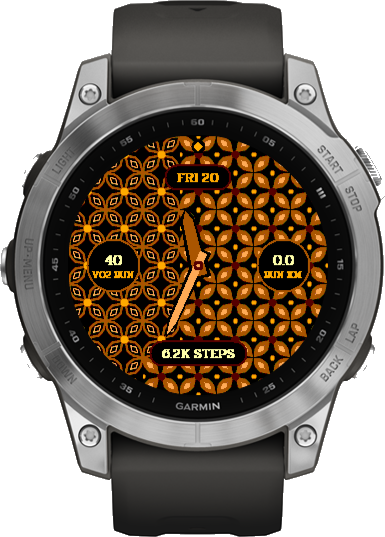
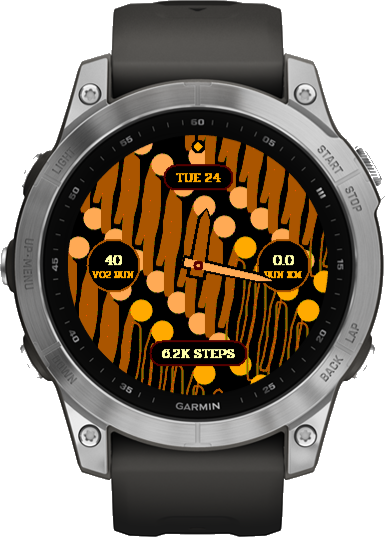
Batik Watchface: refresh store listing and images for v1.2.0
Rewrite the store listing for the three-motif release (Kawung, Parang,
Mega Mendung) with EN/ID descriptions and What's New, regenerate store
images and mockups, and update the preview and compose scripts used to
produce them.

Changed region(s): [[0.1558, 0.2384, 0.8727, 0.7449]]

diff --git a/Batik Watchface/nusantara-kawung/docs/store-listing.md b/Batik Watchface/nusantara-kawung/docs/store-listing.md
@@ -1,38 +1,129 @@
-# NUSANTARA Kawung — Connect IQ Store listing (draft)
+# NUSANTARA Batik: Connect IQ Store listing
 
-**NUSANTARA · Series 01 Batik · Living Heritage on Your Wrist**
+One app, three living batik motifs: Kawung, Parang, Mega Mendung.
+Published under the original Kawung AppID (`4e7573616e746172614b6177756e6701`), so existing users get it as an update.
 
-## Short description
-A Kawung batik watch face that blooms with your day. Steps turn the motif from quiet line-work to full gold.
+Upload: `bin/NusantaraKawung.iq` (version 1.2.0, 64 watches).
+Images: `docs/store/` (HERO, COVER, SCREEN_1 to SCREEN_4), all within portal limits.
+Masters: `docs/store/master/`. Regenerate: `tools/capture.ps1 -Motif n ...`, `tools/compose-store.ps1`, `tools/compose-portal.ps1`.
+
+## Title
+- EN: `NUSANTARA Batik · Living Watch Face`
+- ID: `NUSANTARA Batik · Watch Face Hidup`
 
 ## Description (EN)
-Kawung is one of the classical motifs of Javanese batik: four oval petals around a single centre, repeated in a precise lattice. It is commonly associated with the Yogyakarta and Surakarta court traditions.
+```
+Three classical batik motifs, one living watch face. Choose Kawung, Parang or Mega Mendung in Garmin Connect – the motif itself is your daily progress.
 
-In NUSANTARA Kawung the motif is the progress indicator:
-- **Dormant:** at 0 steps the full Kawung lattice is drawn as fine line-work. It is a complete design on its own.
-- **Awakening:** petals gain gilded outlines, sweeping clockwise from 12 o'clock, ahead of your progress.
-- **Blooming:** petals fill with gold as you approach your daily step goal.
-- **Complete:** at 100% every unit blooms and a gold ring closes the dial.
+THE MOTIFS
+• Kawung – four oval petals around a centre, repeated in a precise lattice (Javanese batik). Fills clockwise from 12 o'clock.
+• Parang – slender S-shaped blades in unbroken diagonal bands (Javanese batik). Fills along the bands.
+• Mega Mendung – layered clouds with spiral curls (Cirebon batik). Fills from the bottom of the dial upward.
 
-Also: analog or digital time, four configurable slots (34 metrics: VO2 max, race predictors, Body Battery, weekly distance, weather and more), a battery jewel that turns red below 20%, four colorways (Keraton Gold, Bronze, Silver Indigo, Sogan Brown), three pattern densities, and a dedicated low-pixel Always-On mode that shifts every minute to protect AMOLED screens.
+LIVING PATTERN
+• Dormant – at 0 steps the motif is drawn as fine line work. It is a complete design on its own.
+• Awakening – the motif gains gilded outlines ahead of your progress.
+• Blooming – it fills with colour as you approach your daily step goal.
+• Complete – at 100% the whole motif blooms and a ring closes the dial.
+It resets at midnight and grows again with every step.
 
-*Linking batik petals to step progress is our design interpretation, not a traditional meaning of the motif.*
+YOUR DATA, YOUR SLOTS
+Four configurable slots with 34 metrics, set in Garmin Connect:
+• Top: weekday + date, date, weather, temperature, sunrise, sunset, next calendar event
+• Bottom: steps, calories, distance, active minutes, floors, battery, heart rate, respiration, Pulse Ox
+• Left: running/cycling VO2 max, heart rate, Body Battery, stress, training status, recovery time, 5K/10K/half/marathon race predictors
+• Right: weekly running/cycling distance, weekly active and intensity minutes, daily distance, calories and active minutes
+Press and hold any slot to open Garmin's own screen for that metric.
+Metrics come from your watch's own data. Metrics your watch does not support show "--".
+
+DESIGN
+• Six colorways for any motif: Keraton Gold, Bronze, Silver Indigo, Sogan Brown, Cirebon Blue, Cirebon Red
+• Analog or digital time, set in the Pridi typeface
+• Three pattern densities: Bold, Classic, Fine
+• Battery jewel at 12 o'clock turns red below 20%
+
+MADE FOR EVERY GARMIN SCREEN
+• AMOLED: full colour, plus a dedicated low-pixel Always-On mode that shifts every minute to protect the screen
+• MIP: a palette tuned to the 64-colour display
+• Instinct: monochrome line work and step-goal % in the subscreen
+• Venu X1: full-bleed motif across the rectangular screen
+
+Note: linking batik motifs to step progress is our design interpretation, not a traditional meaning of the motifs.
+
+Typeface: Pridi by Cadson Demak, SIL Open Font License 1.1.
+```
 
 ## Deskripsi (ID)
-Kawung adalah salah satu motif klasik batik Jawa: empat kelopak lonjong mengelilingi satu pusat, diulang dalam kisi yang teratur, dan sering dikaitkan dengan tradisi keraton Yogyakarta dan Surakarta.
+```
+Tiga motif batik klasik dalam satu watch face yang hidup. Pilih Kawung, Parang, atau Mega Mendung lewat Garmin Connect – motif itu sendiri adalah progres harianmu.
 
-Di NUSANTARA Kawung, motif itu sendiri adalah indikator progres. Pada 0 langkah, motif tampil utuh sebagai garis halus (Dormant). Kelopak lalu mendapat garis emas (Awakening), terisi emas (Blooming), dan pada 100% seluruh motif mekar dengan cincin emas (Complete).
+MOTIF
+• Kawung – empat kelopak lonjong mengelilingi satu pusat, diulang dalam kisi yang teratur (batik Jawa). Terisi searah jarum jam dari pukul 12.
+• Parang – bilah ramping berbentuk S dalam pita diagonal tanpa putus (batik Jawa). Terisi mengikuti arah pita.
+• Mega Mendung – awan berlapis dengan ukel spiral (batik Cirebon). Terisi dari bawah dial ke atas.
 
-*Pemetaan kelopak ke progres langkah adalah interpretasi desain, bukan makna tradisional motif.*
+LIVING PATTERN
+• Dormant – pada 0 langkah, motif tampil sebagai garis halus. Sudah menjadi desain yang utuh.
+• Awakening – motif mendapat garis emas, mendahului progresmu.
+• Blooming – motif terisi warna seiring langkah mendekati target harian.
+• Complete – pada 100% seluruh motif mekar dan cincin menutup dial.
+Kembali ke awal setiap tengah malam dan tumbuh lagi di setiap langkah.
+
+DATAMU, SLOTMU
+Empat slot yang bisa diatur dengan 34 metrik, lewat Garmin Connect:
+• Atas: hari + tanggal, tanggal, cuaca, suhu, matahari terbit, matahari terbenam, agenda kalender berikutnya
+• Bawah: langkah, kalori, jarak, menit aktif, lantai, baterai, detak jantung, laju napas, Pulse Ox
+• Kiri: VO2 max lari/sepeda, detak jantung, Body Battery, stres, status latihan, waktu pemulihan, prediksi lomba 5K/10K/half/marathon
+• Kanan: jarak lari/sepeda mingguan, menit aktif dan menit intensitas mingguan, jarak, kalori, dan menit aktif harian
+Tekan lama slot mana pun untuk membuka layar bawaan Garmin untuk metrik tersebut.
+Metrik diambil dari data jam itu sendiri. Metrik yang tidak didukung jam akan tampil "--".
+
+DESAIN
+• Enam warna untuk motif mana pun: Emas Keraton, Perunggu, Perak Indigo, Coklat Sogan, Biru Cirebon, Merah Cirebon
+• Jam analog atau digital dengan huruf Pridi
+• Tiga kerapatan motif: Tegas, Klasik, Halus
+• Permata baterai di pukul 12 berubah merah di bawah 20%
+
+UNTUK SEMUA LAYAR GARMIN
+• AMOLED: warna penuh, plus mode Always-On hemat piksel yang bergeser tiap menit untuk melindungi layar
+• MIP: palet khusus untuk layar 64 warna
+• Instinct: garis monokrom dan persentase target langkah di subscreen
+• Venu X1: motif memenuhi seluruh layar persegi
+
+Catatan: pemetaan motif batik ke progres langkah adalah interpretasi desain kami, bukan makna tradisional motif.
+
+Huruf: Pridi oleh Cadson Demak, SIL Open Font License 1.1.
+```
+
+## What's New (v1.2.0)
+EN:
+```
+v1.2.0 – NUSANTARA Batik
+• Two new motifs: Parang and Mega Mendung. Choose your motif in the watch face settings in Garmin Connect (Kawung stays the default).
+• Two new colorways, Cirebon Blue and Cirebon Red – all six colorways work with every motif.
+• Each motif fills in its own way: Kawung clockwise, Parang along its bands, Mega Mendung from the bottom up.
+
+Thanks for the feedback – keep it coming!
+```
+ID:
+```
+v1.2.0 – NUSANTARA Batik
+• Dua motif baru: Parang dan Mega Mendung. Pilih motif di pengaturan watch face lewat Garmin Connect (Kawung tetap jadi default).
+• Dua warna baru, Biru Cirebon dan Merah Cirebon – keenam warna bisa dipakai di semua motif.
+• Setiap motif terisi dengan caranya sendiri: Kawung searah jarum jam, Parang mengikuti pita, Mega Mendung dari bawah ke atas.
+
+Terima kasih atas feedback-nya – terus kabari kami!
+```
 
 ## Version history
+- **1.2.0**: one app for three motifs (Kawung, Parang, Mega Mendung) via a Motif setting; six shared colorways.
 - **1.1.0**: press-and-hold any slot to open Garmin's native screen; larger slot text; brighter Dormant motif; bolder default pattern; calmer rims; clearer hands.
-- **1.0.0**: first release.
+- **1.0.0**: first release (Kawung).
 
-## Credits
-Typeface: Pridi by Cadson Demak, SIL Open Font License 1.1 (see `docs/Pridi-OFL.txt`). Bitmap fonts are generated from the TTFs by `../fonts/make-bmfonts.ps1`.
+## Other portal fields
+Category Stylish, collects user data No, ANT+ No, regional limits No, review notification Yes, app migration Yes, monetization No, a project email (not personal).
 
 ## Before publishing
-- [ ] Verify the cultural claims (court association, history) against a cited source: a museum, batik institute or academic reference. Add the citation here.
-- [x] Store preview images (1600x1000) in `docs/store/`: 1 Main Watch Face, 2 Living Pattern, 3 Metric Customization, 4 Display Modes. Regenerate with `tools/capture.ps1` + `tools/compose-store.ps1`.
-- [ ] Hero image 500×500 and a dedicated 54–70 px launcher icon per size (the current icon is auto-scaled).
+- [ ] Sideload `bin/NusantaraKawung-fr165.prg` and switch motifs on a real watch (needs the Store or Connect IQ app for settings; sideloaded builds use defaults).
+- [ ] Verify cultural claims against a cited source.
+- [ ] Optional: a launcher icon for the combined app (still the Kawung flower).
